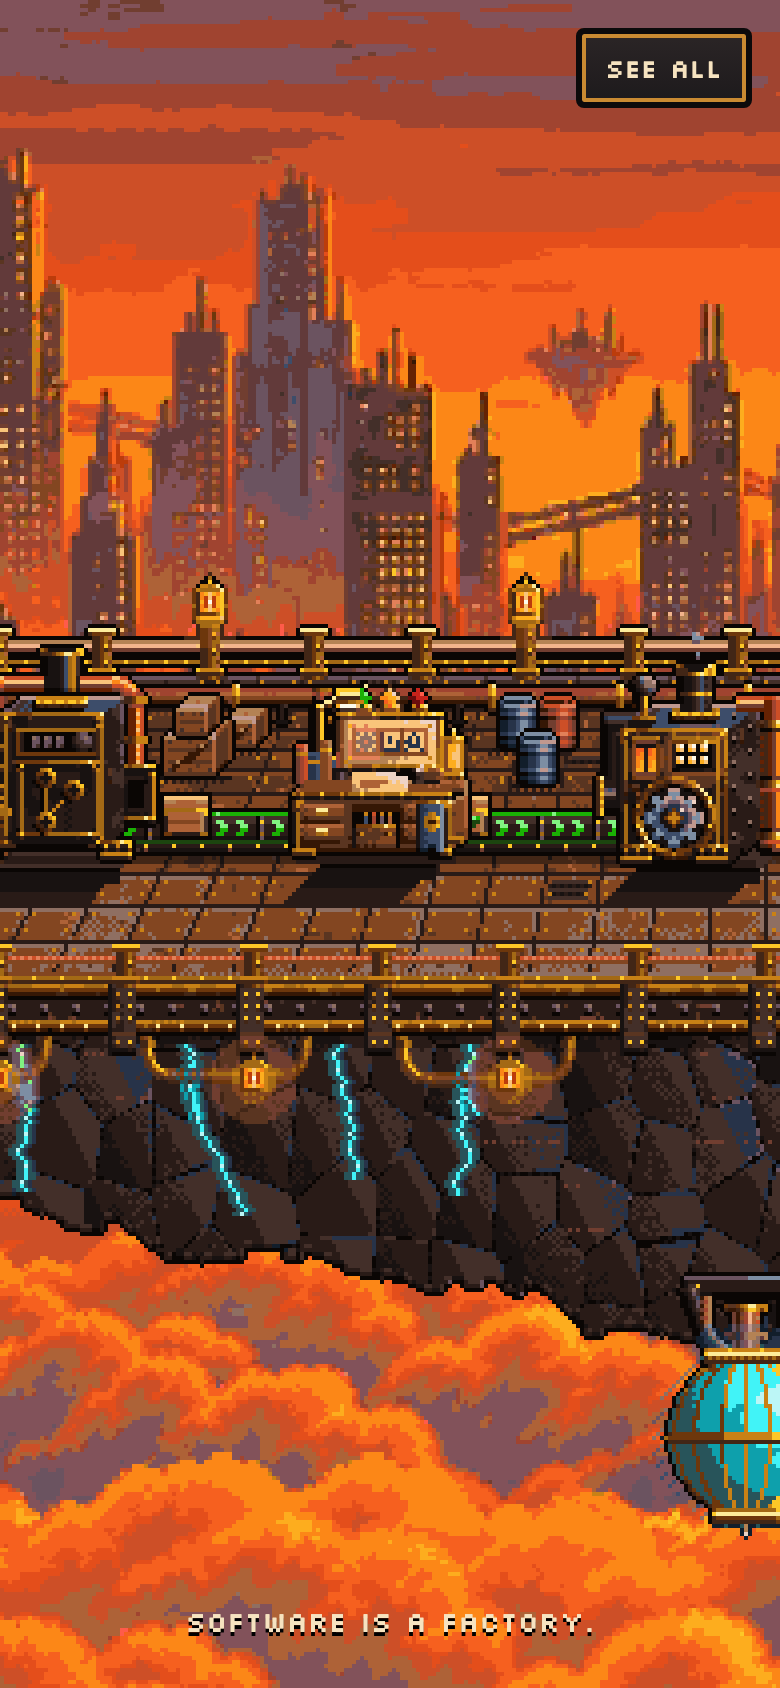
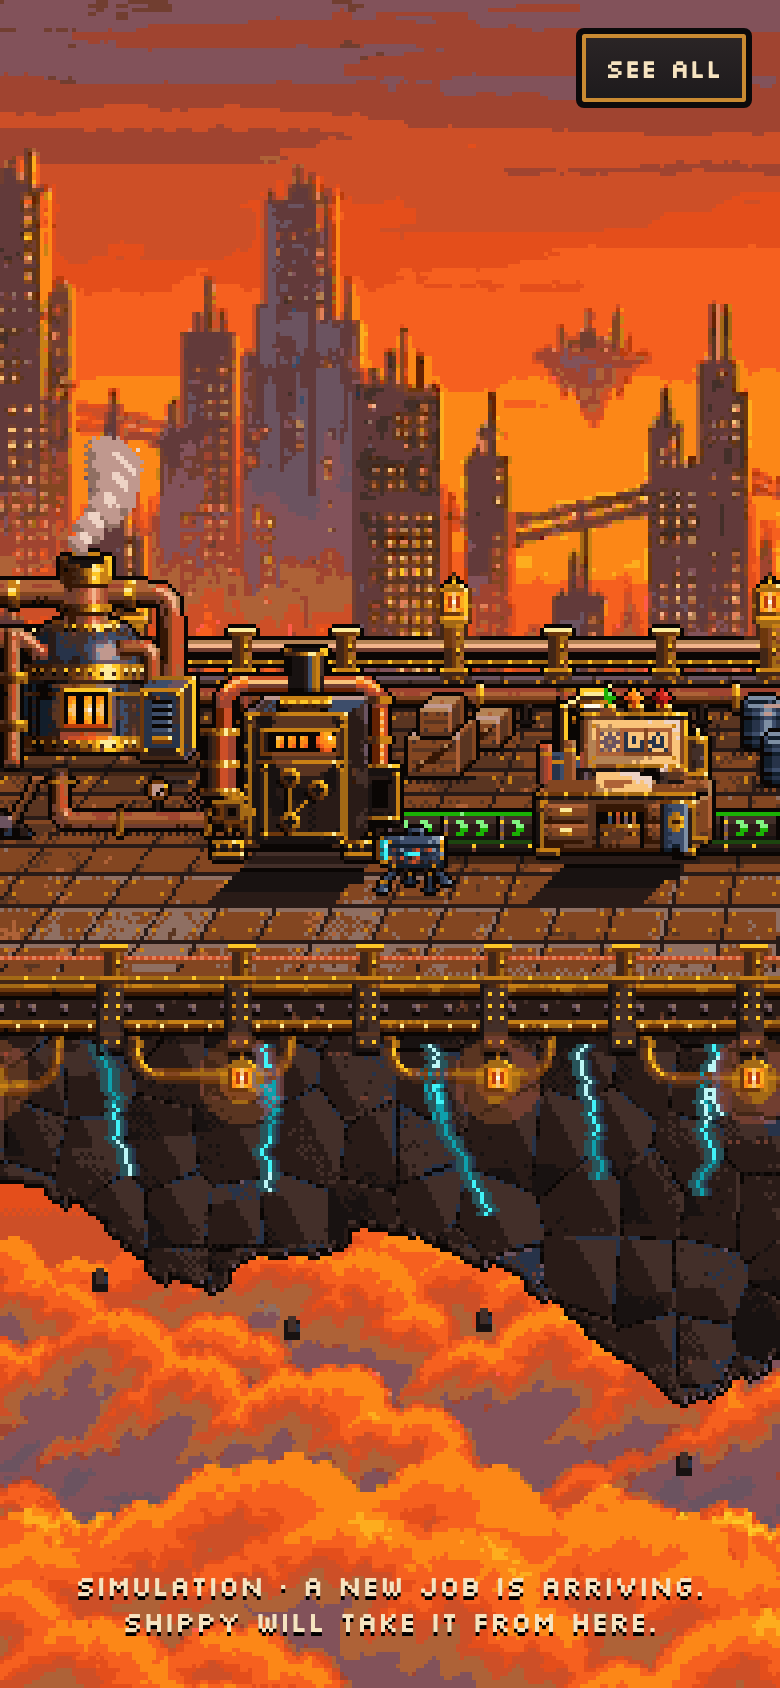
Record final deck direction and wrap watch captions on phones

diff --git a/web/src/deck2d/main.ts b/web/src/deck2d/main.ts
@@ -31,7 +31,10 @@ const seed = Number(params.get("seed")) || 0;
   const want = params.get("source");
   const rehearsal = want === "shippy-demo" ? createShippyRehearsal() : null;
   if (rehearsal) source = rehearsal;
-  else if (isWatchMode(location.search)) source = createWatchSource();
+  else if (isWatchMode(location.search)) {
+    source = createWatchSource();
+    document.body.classList.add("factory-watch");
+  }
   else if (want === "launch-demo") source = createLaunchDemo();
   else if (want === "orb-demo") source = createOrbDemo();
   else if ((want === "live" || want === "sim") && data?.createLiveSource) source = await (data.createLiveSource as () => Promise<DeckSource> | DeckSource)();

diff --git a/web/src/deck2d/deck.css b/web/src/deck2d/deck.css
@@ -55,5 +55,5 @@ body { -webkit-tap-highlight-color: transparent; overscroll-behavior: none; user
   margin: 0; font-size: 14px; color: var(--ink); text-shadow: 0 2px 0 #000; opacity: 0; transition: opacity .4s; pointer-events: none; white-space: nowrap;
 }
 .toast.on { opacity: 1; }
-.shippy-rehearsal .toast { width: calc(100% - 24px); max-width: 560px; white-space: normal; text-align: center; }
+.shippy-rehearsal .toast, .factory-watch .toast { width: calc(100% - 24px); max-width: 560px; white-space: normal; text-align: center; }
 @media (prefers-reduced-motion: reduce) { .card, .card.gone { animation: none; } }

diff --git a/docs/context/threads.md b/docs/context/threads.md
@@ -4,6 +4,8 @@
 
 PR #596 (`codex/deck-visuals`) adds a deeper foreground floor, grounded machines and Shippy, green/red conveyor flow, a pulsing blocked-state orb, persistent macOS pinch zoom, and detailed rocket launch/return effects. Justin approved the descent and fast side jets; later requests add a substantial fractured-rock underside and a short, braced engine cradle instead of the long exposed center pipe. Before/after phone and desktop shots are in `docs/evidence/deck-visuals/`. Targets `dev`; no deployment or merge is authorized by this visual PR.
 
+The final pass adds layered cascading cliffs, animated cyan seams and floating fragments, Shippy's walking/building rehearsal, real factory job-driven poses, and a simulator-only automatic build → failed check → repair → rocket loop (`/deck.html?source=sim&scenario=deck-watch&watch=1`). Justin selected this style as the baseline going forward. Live factory approvals remain manual.
+
 ## Browser signing key reuse (Codex, 2026-10-28)
 
 Session cookies and preview-form proofs now reuse the existing bounded, isolate-local HMAC key cache. Before: every sign/verification imported a key; after: concurrent checks with the same secret share one import. Cookie signatures, expiry, password rotation and fresh authorization checks remain unchanged. Focused session/gate/cache tests pass; full check and exact-head dev CI govern merge. This CPU reduction is not a claim that the connection latency target has been achieved.
